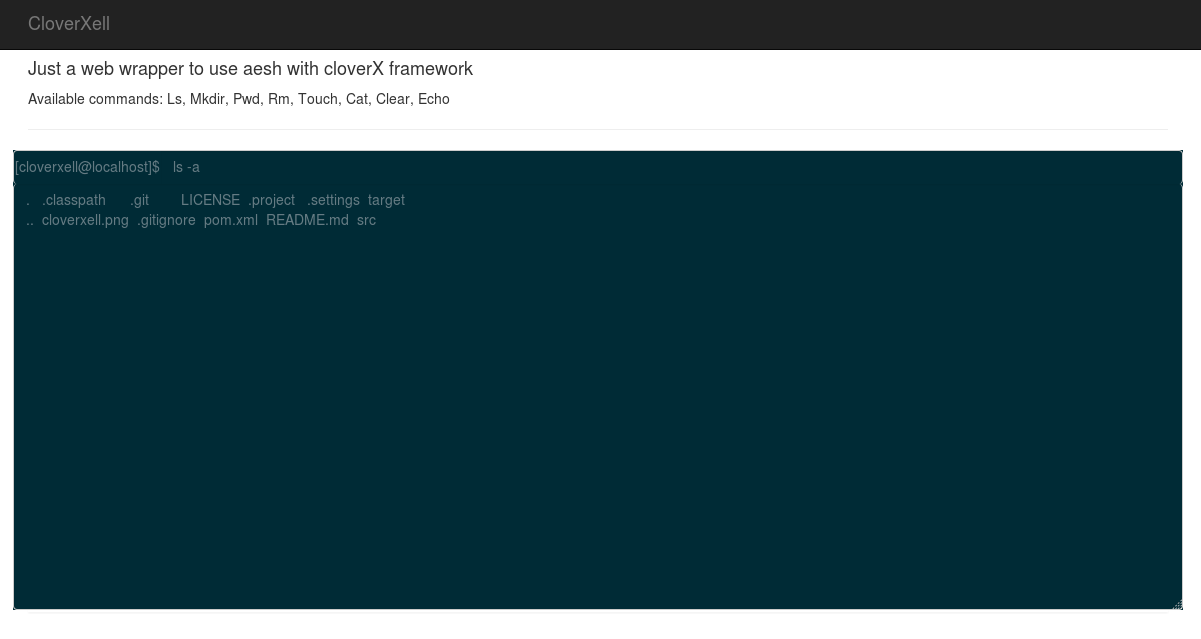
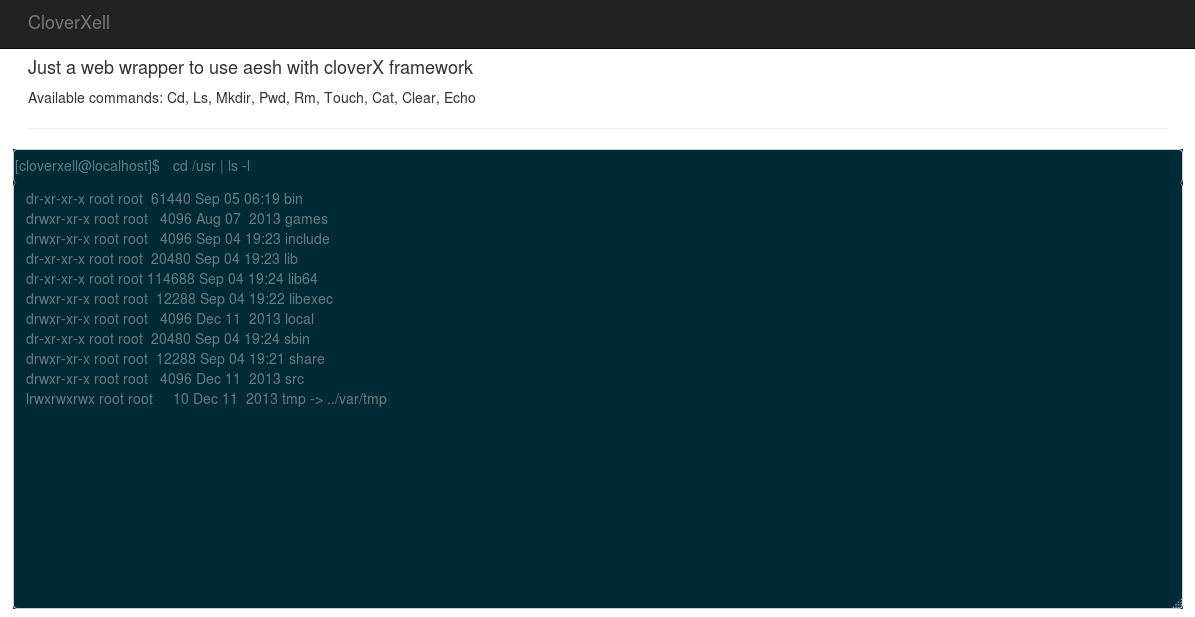
readme update, new screenshot

diff --git a/src/main/java/org/esmerilprogramming/cloverxell/controller/AeshHandler.java b/src/main/java/org/esmerilprogramming/cloverxell/controller/AeshHandler.java
@@ -117,7 +117,7 @@ public class AeshHandler {
 
   private void pause() {
     try {
-      Thread.sleep(80);
+      Thread.sleep(100);
     } catch (InterruptedException e) {
       e.printStackTrace();
     }

diff --git a/README.md b/README.md
@@ -3,5 +3,16 @@ cloverxell
 
 Just a web wrapper to use aesh with cloverX framework
 
+Available commands: 
+
+* Cd
+* Ls
+* Mkdir
+* Pwd
+* Rm
+* Touch
+* Cat
+* Clear
+* Echo
 
 ![Alt cloverxell](https://raw.githubusercontent.com/EsmerilProgramming/cloverxell/master/cloverxell.png)
